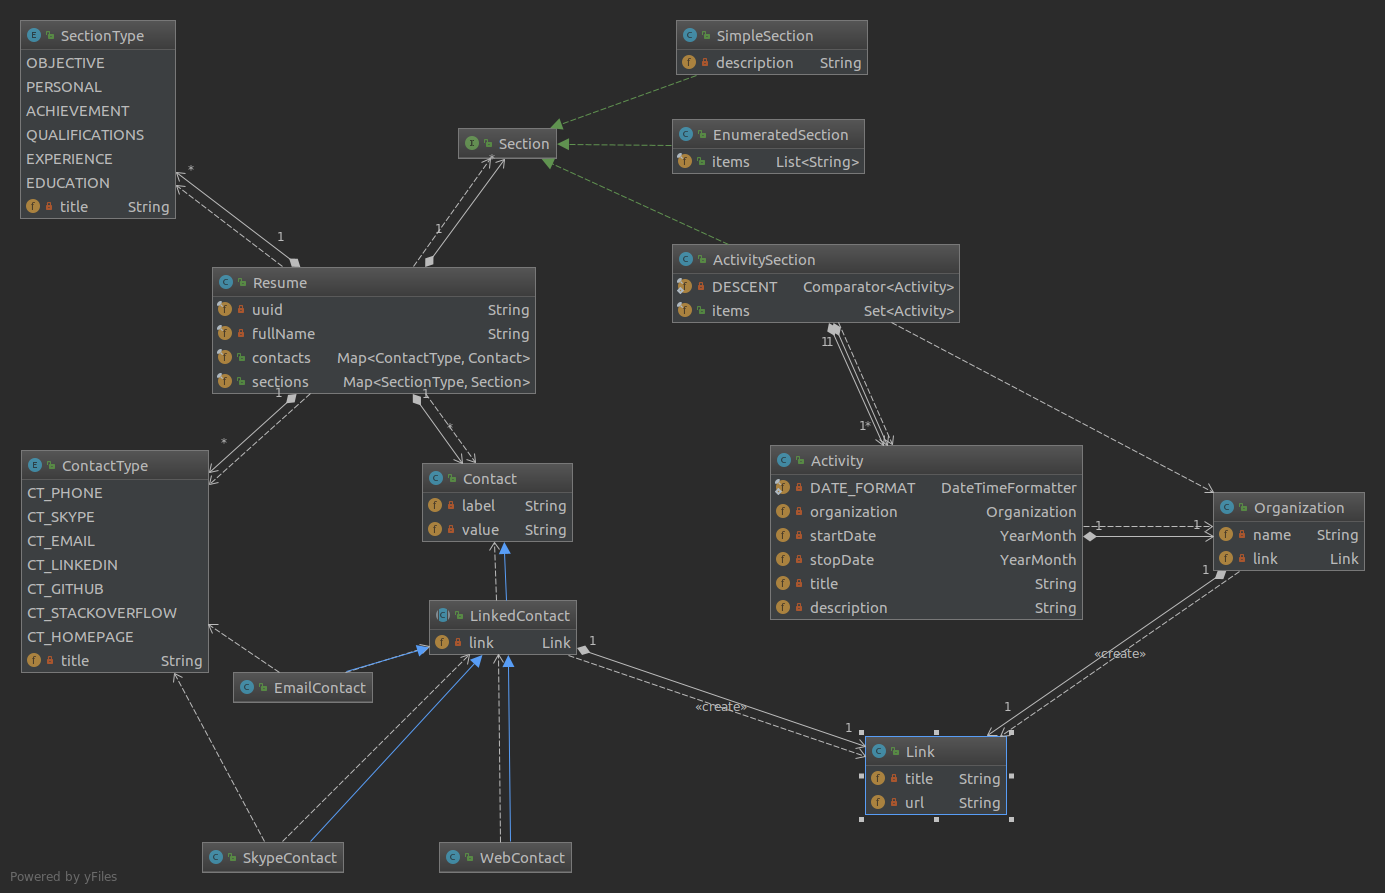
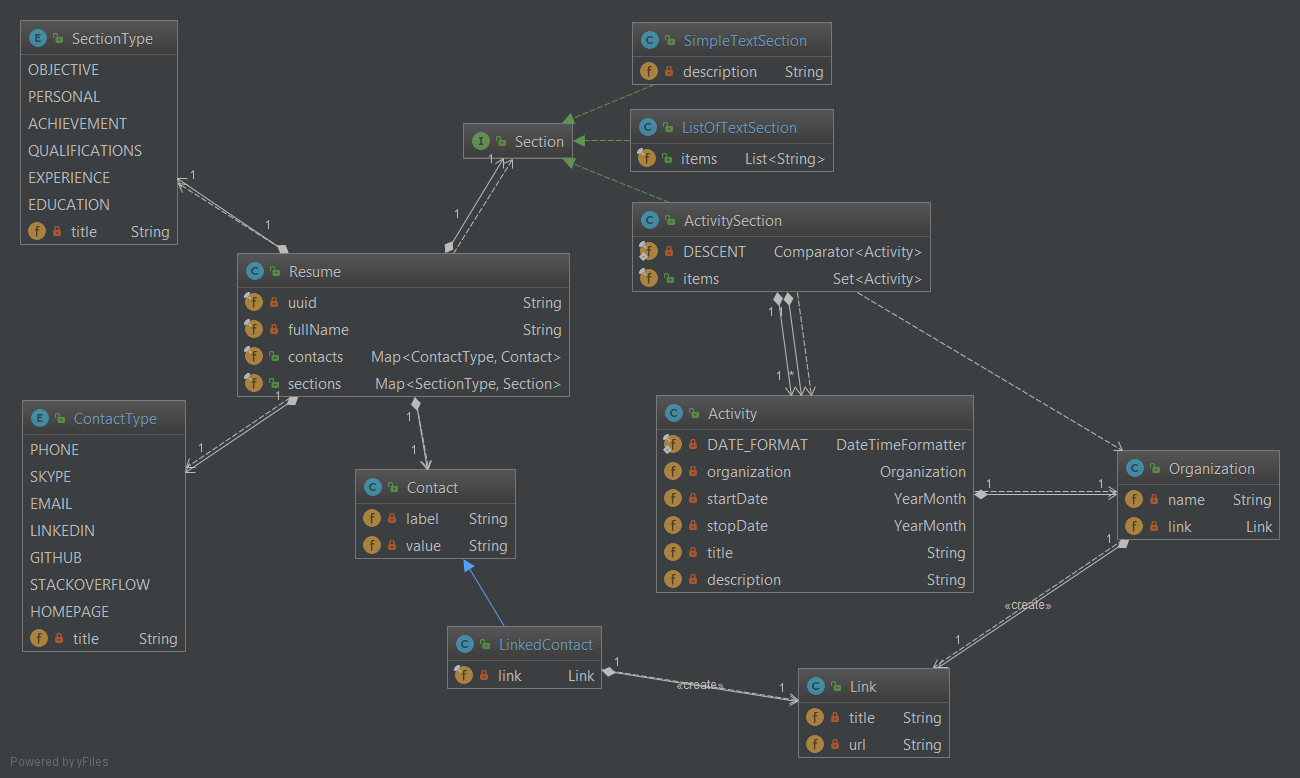
HW-07 Corrections after remarks
- Renamed contact type constants
- Renamed some section classes
- Simplified contact class hierarchy

diff --git a/test/model/ResumeTest.java b/test/model/ResumeTest.java
@@ -16,17 +16,19 @@ public class ResumeTest {
     @Before
     public void setUp() {
         resume = new Resume("Григорий Кислин");
-        resume.contacts.put(CT_PHONE, new Contact(CT_PHONE.getTitle(), "+7(921) 855-0482"));
-        resume.contacts.put(CT_SKYPE, new SkypeContact("grigory.kislin"));
-        resume.contacts.put(CT_EMAIL, new EmailContact("gkislin@yandex.ru"));
-        resume.contacts.put(CT_LINKEDIN, new WebContact(CT_LINKEDIN.getTitle(), "https://www.linkedin.com/in/gkislin"));
-        resume.contacts.put(CT_GITHUB, new WebContact(CT_GITHUB.getTitle(), "https://github.com/gkislin"));
-        resume.contacts.put(CT_STACKOVERFLOW, new WebContact(CT_STACKOVERFLOW.getTitle(), "https://stackoverflow.com/users/548473"));
-        resume.contacts.put(CT_HOMEPAGE, new WebContact(CT_HOMEPAGE.getTitle(), "http://gkislin.ru/"));
 
-        resume.sections.put(OBJECTIVE, new SimpleSection("Ведущий стажировок и корпоративного обучения по Java Web и Enterprise технологиям"));
-        resume.sections.put(PERSONAL, new SimpleSection("Аналитический склад ума, сильная логика, креативность, инициативность. Пурист кода и архитектуры"));
-        resume.sections.put(ACHIEVEMENT, new EnumeratedSection(Arrays.asList(
+        resume.contacts.put(PHONE, new Contact(PHONE.getTitle(), "+7(921) 855-0482"));
+        resume.contacts.put(SKYPE, new LinkedContact(SKYPE.getTitle(),"grigory.kislin", "skype:grigory.kislin"));
+        resume.contacts.put(EMAIL, new LinkedContact(EMAIL.getTitle(),"gkislin@yandex.ru", "mailto:gkislin@yandex.ru"));
+        resume.contacts.put(LINKEDIN, new LinkedContact(LINKEDIN.getTitle(), "https://www.linkedin.com/in/gkislin"));
+        resume.contacts.put(GITHUB, new LinkedContact(GITHUB.getTitle(), "https://github.com/gkislin"));
+        resume.contacts.put(STACKOVERFLOW, new LinkedContact(STACKOVERFLOW.getTitle(), "https://stackoverflow.com/users/548473"));
+        resume.contacts.put(HOMEPAGE, new LinkedContact(HOMEPAGE.getTitle(), "http://gkislin.ru/"));
+
+        resume.sections.put(OBJECTIVE, new SimpleTextSection("Ведущий стажировок и корпоративного обучения по Java Web и Enterprise технологиям"));
+        resume.sections.put(PERSONAL, new SimpleTextSection("Аналитический склад ума, сильная логика, креативность, инициативность. Пурист кода и архитектуры"));
+
+        resume.sections.put(ACHIEVEMENT, new ListOfTextSection(Arrays.asList(
                 "С 2013 года: разработка проектов \"Разработка Web приложения\",\"Java Enterprise\", \"Многомодульный maven. Многопоточность. XML (JAXB/StAX). Веб сервисы (JAX-RS/SOAP). Удаленное взаимодействие (JMS/AKKA)\". Организация онлайн стажировок и ведение проектов. Более 1000 выпускников.",
                 "Реализация двухфакторной аутентификации для онлайн платформы управления проектами Wrike. Интеграция с Twilio, DuoSecurity, Google Authenticator, Jira, Zendesk.",
                 "Налаживание процесса разработки и непрерывной интеграции ERP системы River BPM. Интеграция с 1С, Bonita BPM, CMIS, LDAP. Разработка приложения управления окружением на стеке: Scala/Play/Anorm/JQuery. Разработка SSO аутентификации и авторизации различных ERP модулей, интеграция CIFS/SMB java сервера.",
@@ -34,7 +36,7 @@ public class ResumeTest {
                 "Создание JavaEE фреймворка для отказоустойчивого взаимодействия слабо-связанных сервисов (SOA-base архитектура, JAX-WS, JMS, AS Glassfish). Сбор статистики сервисов и информации о состоянии через систему мониторинга Nagios. Реализация онлайн клиента для администрирования и мониторинга системы по JMX (Jython/ Django).",
                 "Реализация протоколов по приему платежей всех основных платежных системы России (Cyberplat, Eport, Chronopay, Сбербанк), Белоруcсии(Erip, Osmp) и Никарагуа."
         )));
-        resume.sections.put(QUALIFICATIONS, new EnumeratedSection(Arrays.asList(
+        resume.sections.put(QUALIFICATIONS, new ListOfTextSection(Arrays.asList(
                 "JEE AS: GlassFish (v2.1, v3), OC4J, JBoss, Tomcat, Jetty, WebLogic, WSO2",
                 "Version control: Subversion, Git, Mercury, ClearCase, Perforce",
                 "DB: PostgreSQL(наследование, pgplsql, PL/Python), Redis (Jedis), H2, Oracle",
@@ -53,6 +55,7 @@ public class ResumeTest {
                 "программирования",
                 "Родной русский, английский \"upper intermediate\""
         )));
+
         resume.sections.put(EXPERIENCE, new ActivitySection(Arrays.asList(
                 new Activity(new Organization("Java Online Projects", "http://javaops.ru/"),
                         YearMonth.of(2013, 10),

diff --git a/src/model/ContactType.java b/src/model/ContactType.java
@@ -1,13 +1,13 @@
 package model;
 
 public enum ContactType {
-    CT_PHONE("Тел."),
-    CT_SKYPE("Skype"),
-    CT_EMAIL("Почта"),
-    CT_LINKEDIN("Профиль LinkedIn"),
-    CT_GITHUB("Профиль GitHub"),
-    CT_STACKOVERFLOW("Профиль Stackoverflow"),
-    CT_HOMEPAGE("Домашняя страница");
+    PHONE("Тел."),
+    SKYPE("Skype"),
+    EMAIL("Почта"),
+    LINKEDIN("Профиль LinkedIn"),
+    GITHUB("Профиль GitHub"),
+    STACKOVERFLOW("Профиль Stackoverflow"),
+    HOMEPAGE("Домашняя страница");
 
     private String title;
 

diff --git a/src/model/ListOfTextSection.java b/src/model/ListOfTextSection.java
@@ -3,11 +3,11 @@ package model;
 import java.util.ArrayList;
 import java.util.List;
 
-public class EnumeratedSection implements Section {
+public class ListOfTextSection implements Section {
 
     public final List<String> items = new ArrayList<>();
 
-    public EnumeratedSection(List<String> items) {
+    public ListOfTextSection(List<String> items) {
         this.items.addAll(items);
     }
 

diff --git a/src/model/SimpleTextSection.java b/src/model/SimpleTextSection.java
@@ -2,14 +2,11 @@ package model;
 
 import java.util.Objects;
 
-public class SimpleSection implements Section {
+public class SimpleTextSection implements Section {
 
     private String description;
 
-    public SimpleSection() {
-    }
-
-    SimpleSection(String description) {
+    SimpleTextSection(String description) {
         this.description = Objects.requireNonNull(description);
     }
 

diff --git a/src/model/LinkedContact.java b/src/model/LinkedContact.java
@@ -1,8 +1,12 @@
 package model;
 
-public abstract class LinkedContact extends Contact {
+public class LinkedContact extends Contact {
 
-    private Link link;
+    private final Link link;
+
+    public LinkedContact(String title, String url) {
+        this(null, title, url);
+    }
 
     public LinkedContact(String label, String title, String url) {
         super(label, null);
